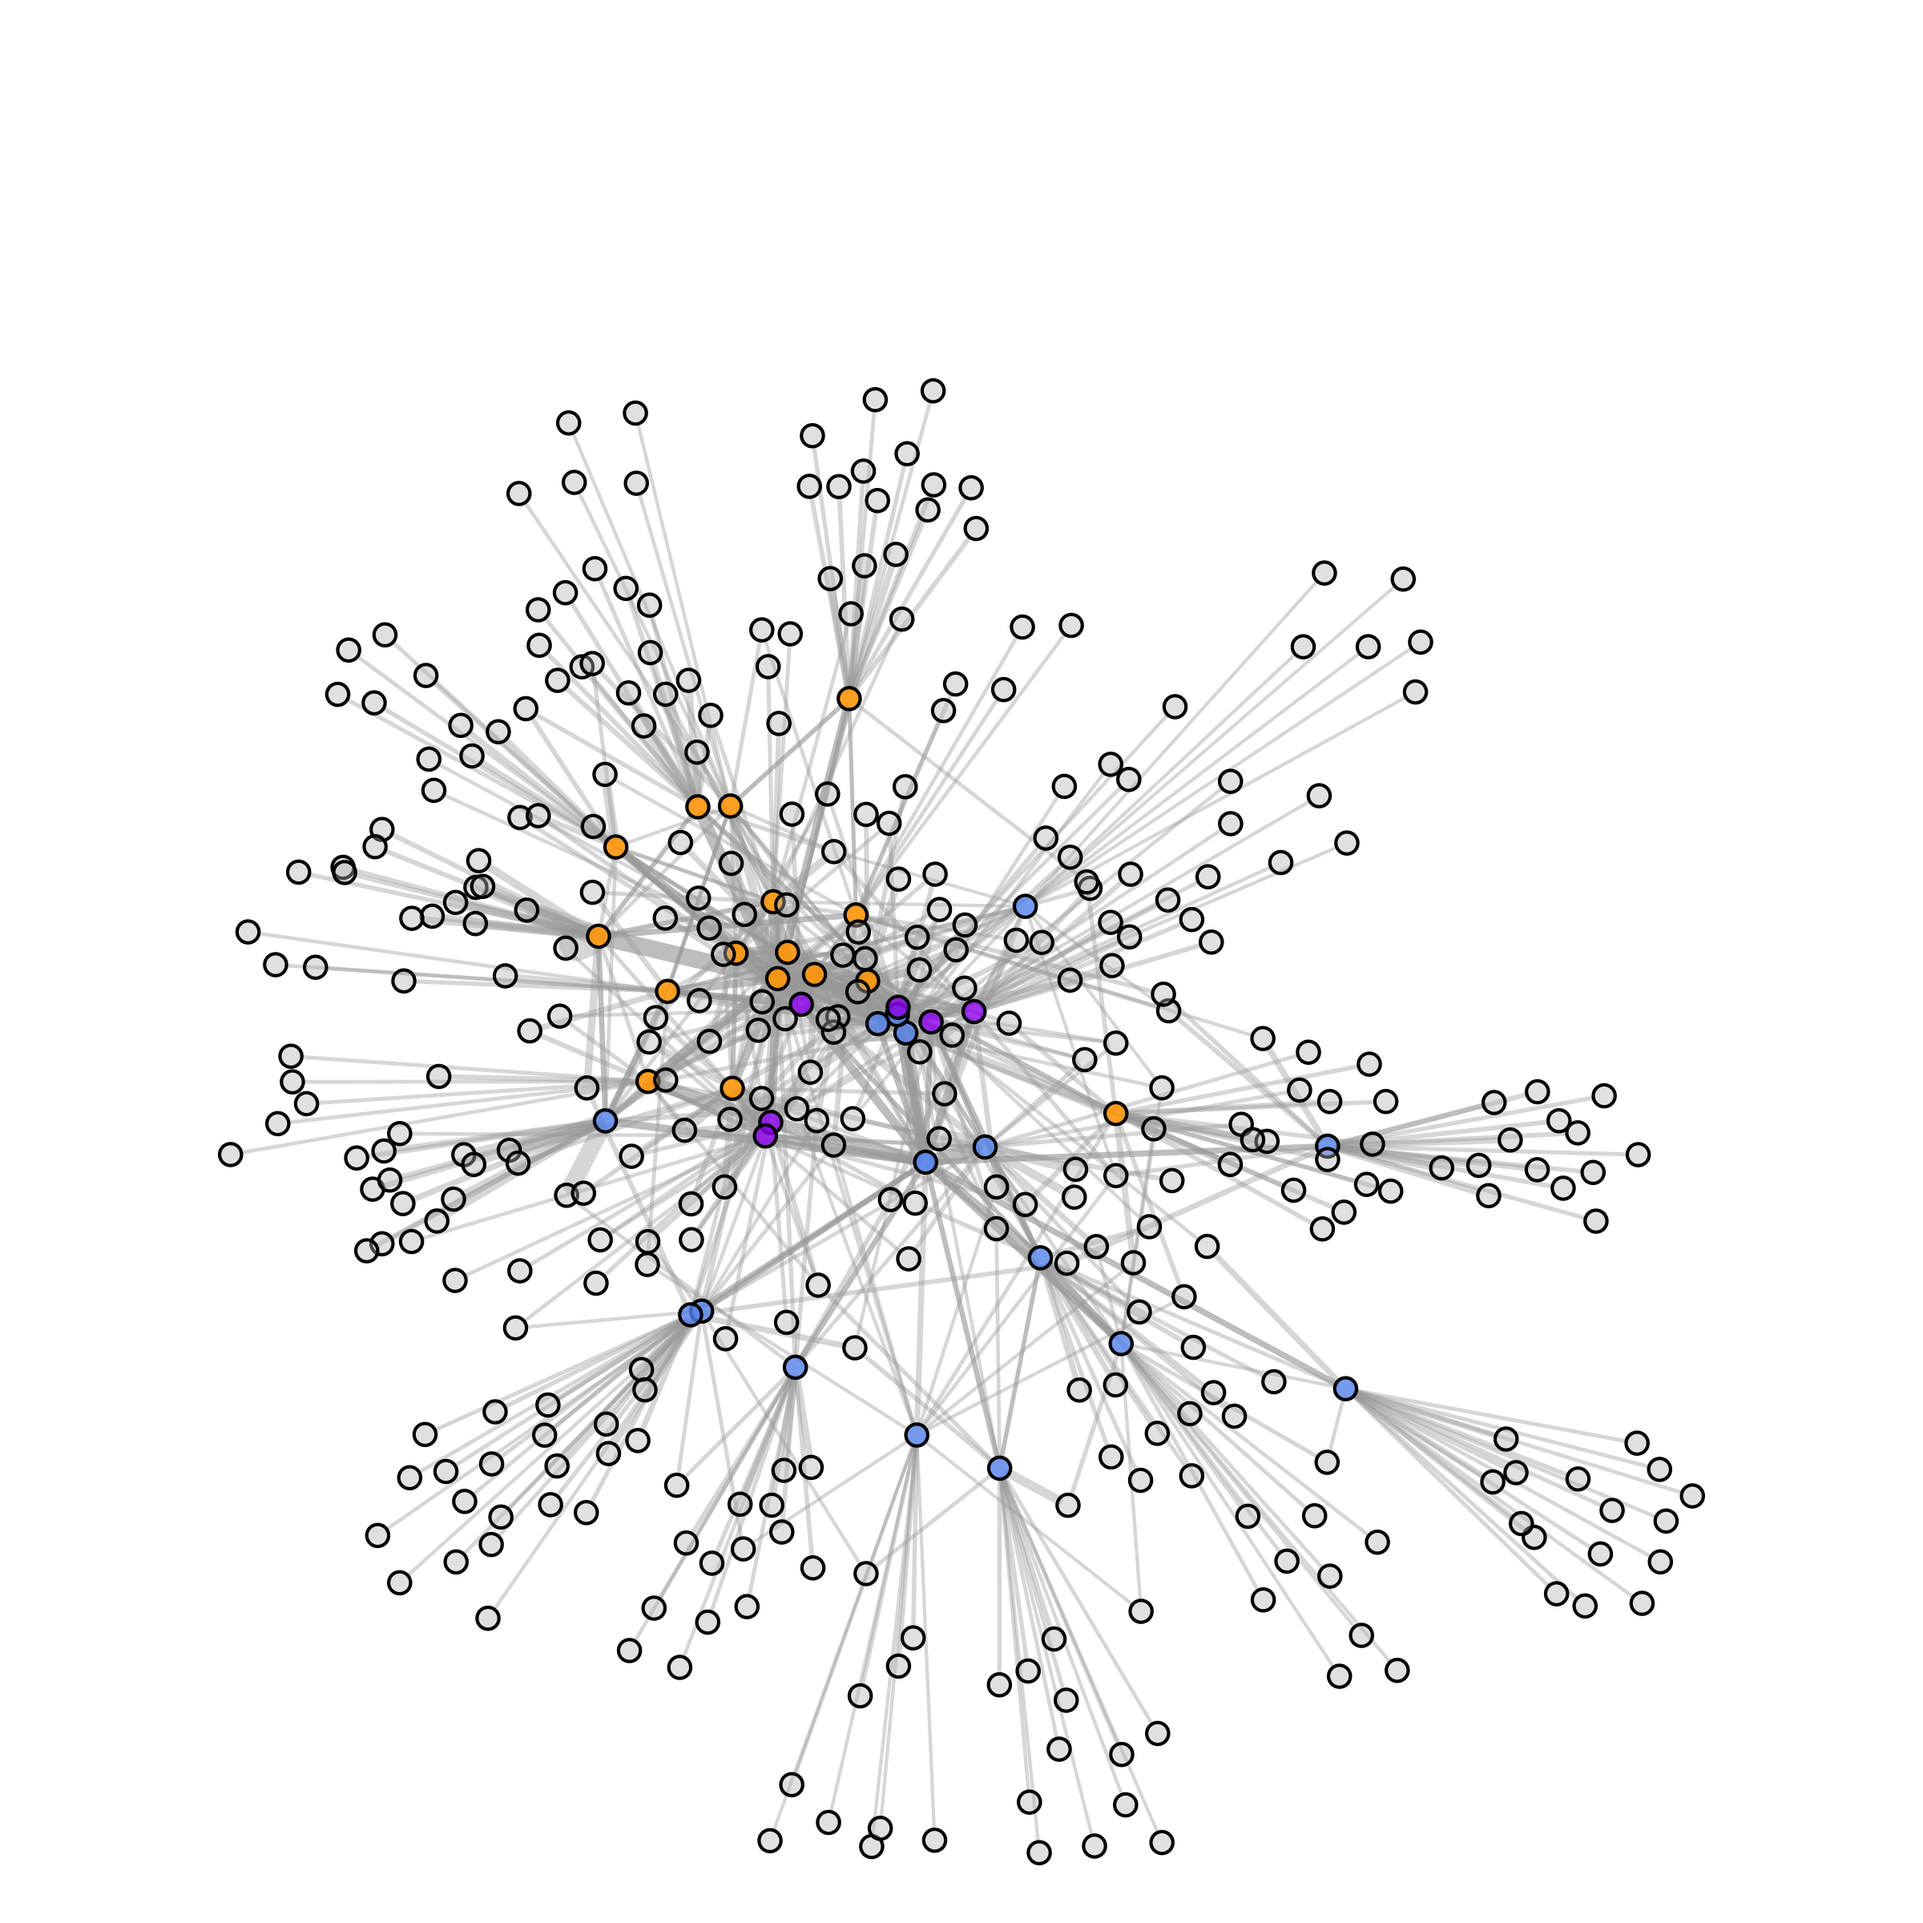
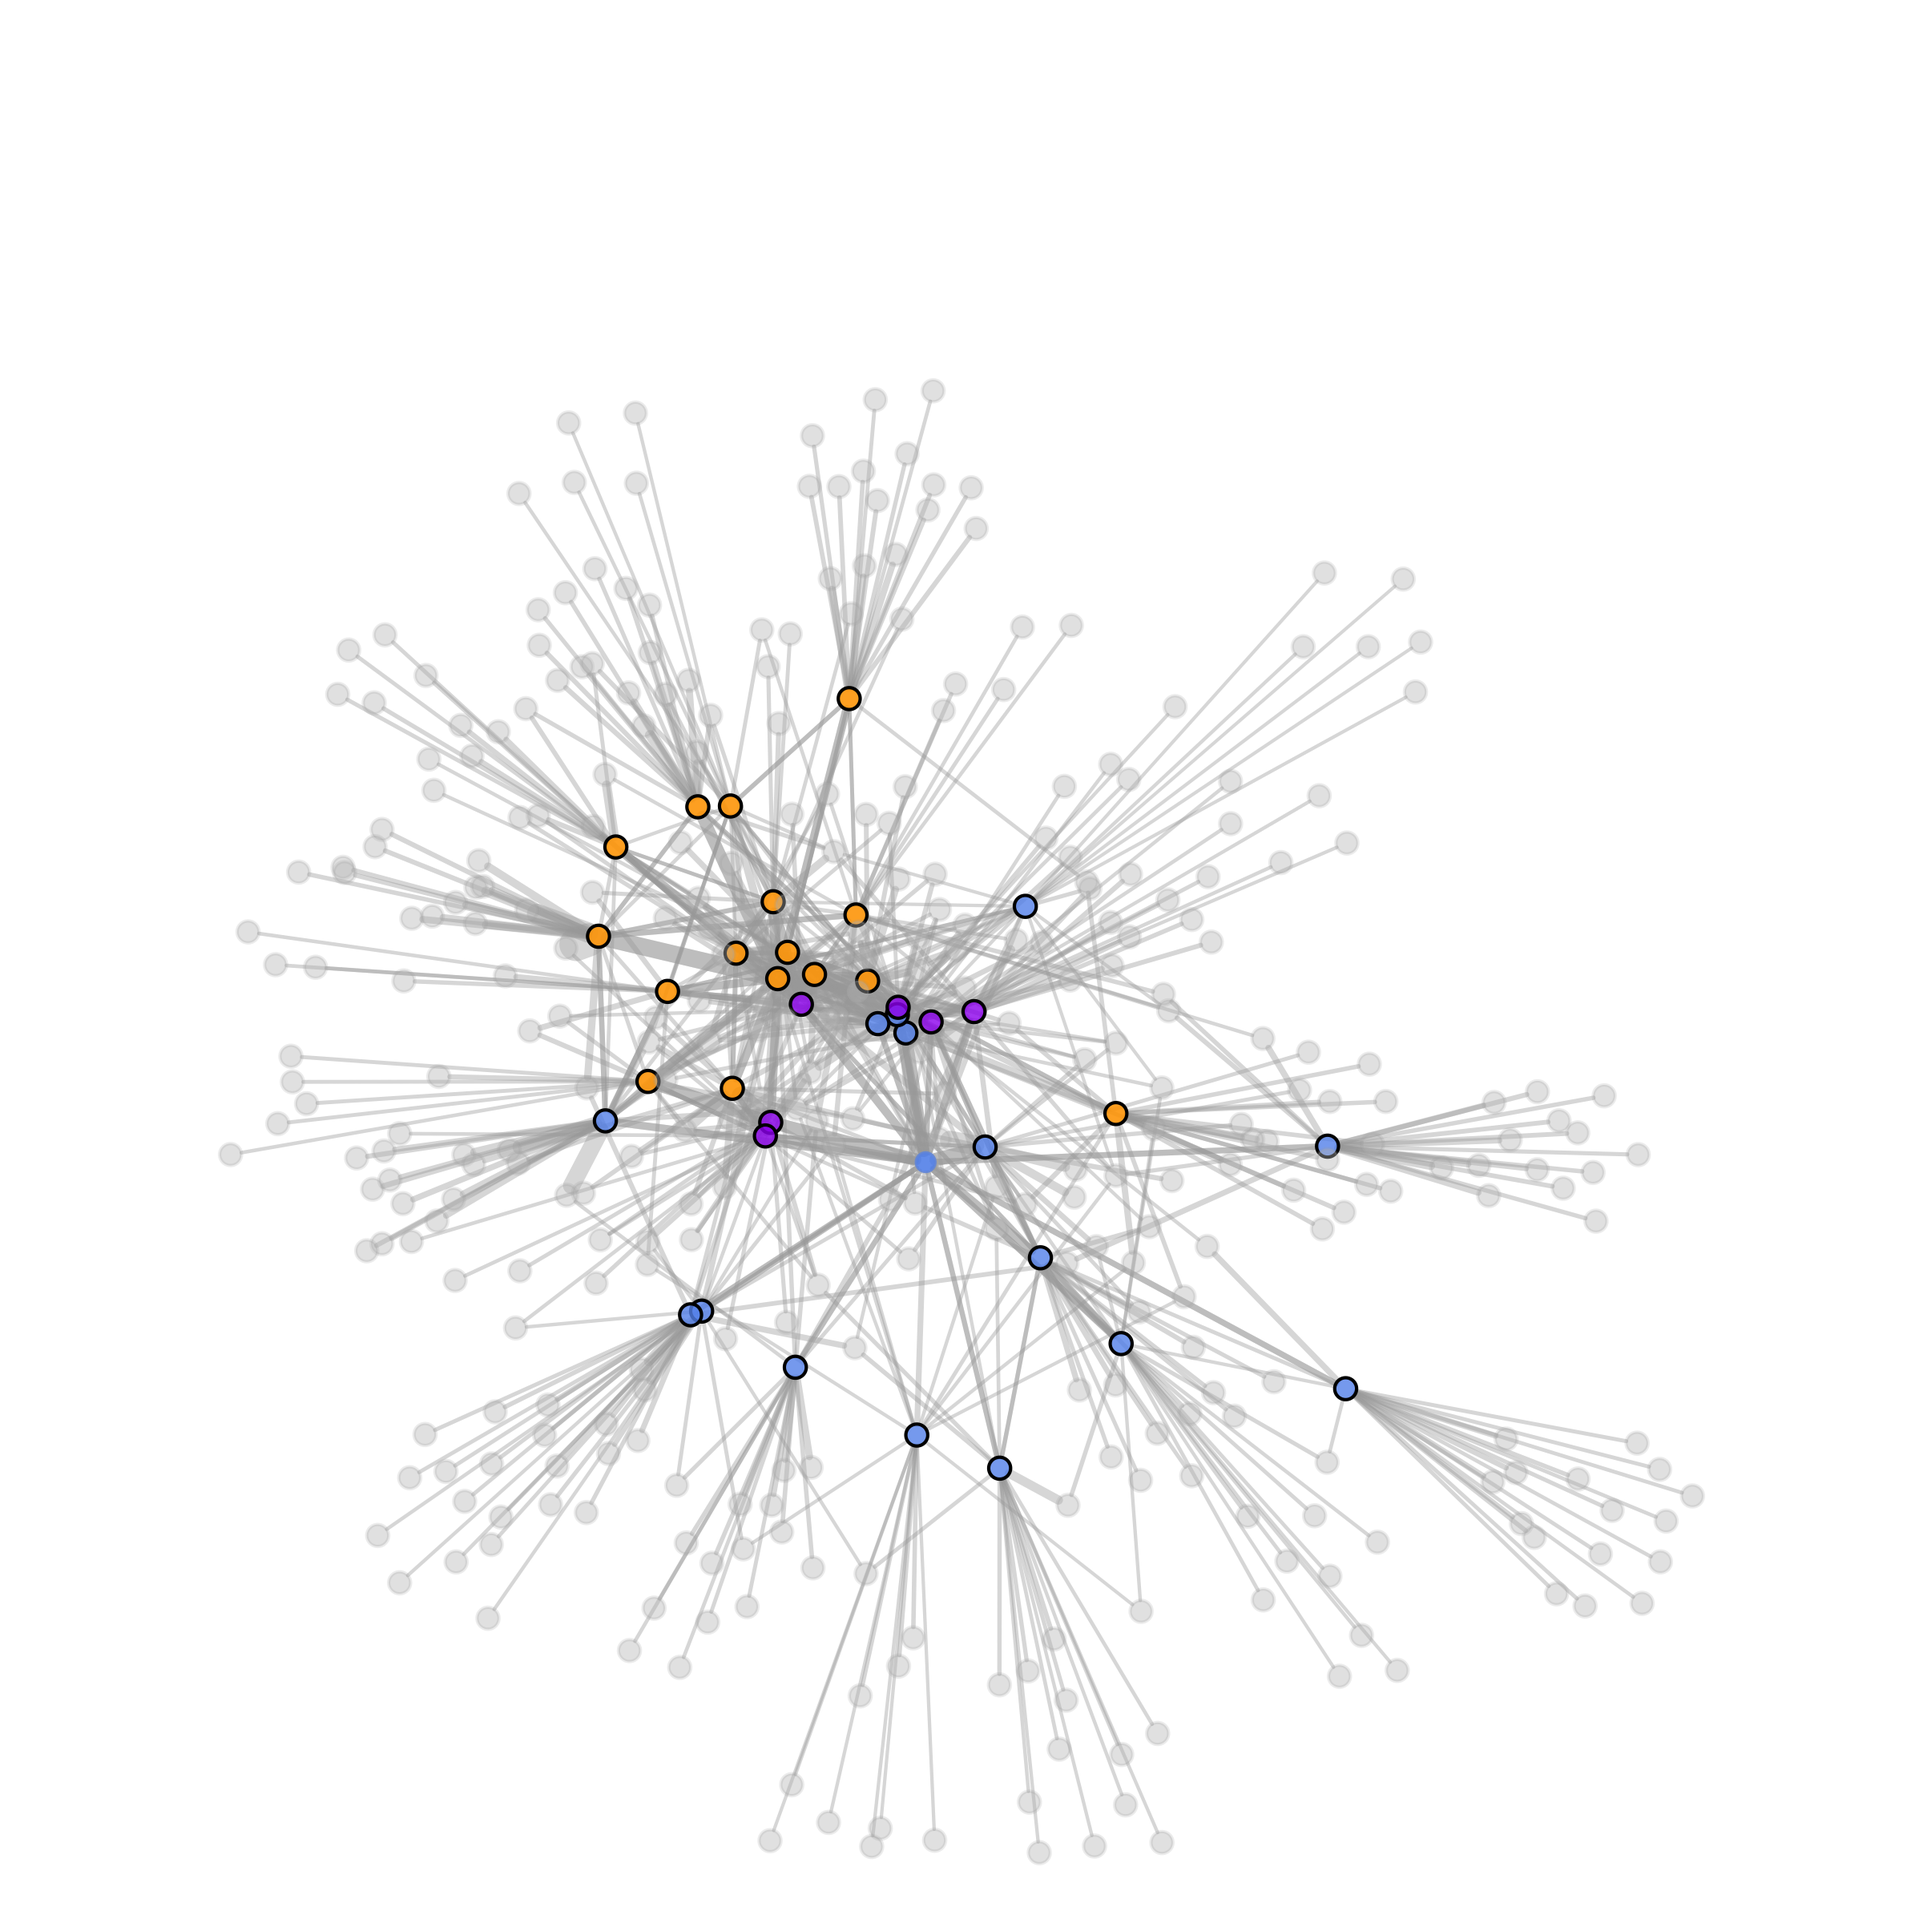
update README.md

diff --git a/docs/README.md b/docs/README.md
@@ -29,6 +29,8 @@ library(tidyverse)
 library(quanteda) #for text cleaning
 library(igraph) #for creating graphs
 library(visNetwork) #for visualizing graphs
+library(gridExtra)
+library(gtable)
 
 source("calculatecoocstats.R") #calculate co-occurrence statistics
 source("grapher.R") #create graph
@@ -499,7 +501,7 @@ graph = grapherdemo(21, token_filter3('all', 1940, 2020, token.all)) #create gra
  #visIgraph(g) #%>% visNodes(font = list(size = 26))  #display
  
 plot(g, vertex.size = 3, vertex.label = NA, 
-     vertex.label.dist = 0, 
+     vertex.label.dist = 0, vertex.frame.color = ifelse(V(g)$name %in% c(names(male_primary), names(female_primary), 'female/characters'), adjustcolor('black', alpha.f = 1), adjustcolor('darkgray', alpha.f = 0.2)),
      edge.curved=FALSE)
 ```
 
@@ -609,7 +611,12 @@ fprimary_tropes = female_ps
  
  #V(g)$color <- when(V(g)$name %in% 'male/character', adjustcolor('red', alpha = 0.8))
  #visIgraph(g)
- plot(g, vertex.size = 3, vertex.label = NA, 
+ plot(g, vertex.size = 3, vertex.label = NA,
+      vertex.frame.color = ifelse(V(g)$name %in% c(names(male_primary),
+                                                   names(female_primary), 
+                                                   'female/characters'), 
+                                  adjustcolor('black', alpha.f = 1), 
+                                  adjustcolor('darkgray', alpha.f = 0.2)),
      vertex.label.dist = 0, 
      edge.curved=FALSE)
 ```
@@ -634,48 +641,54 @@ fprimary_tropes = female_ps
 ## Common Roles
 
 ``` r
-graph = grapherdemo(21, token_filter3('noun', 1940, 2020, token.all))
+ll_bar <- function(pos = 'noun', n = 21, ylimit = 1800){
+graph = grapherdemo(21, token_filter3(pos, 1940, 2020, token.all))
 female_primary = graph[[2]] #20 female primary nodes
 male_primary = graph[[3]] #20 male primary nodes
 g = graph[[1]] #save graph as g
 
 male_primary = male_primary[names(male_primary) != 'female/characters']
-male_primary = male_primary[1:20]
+male_primary = male_primary[1:(n-1)]
 male_np = data.frame(word = names(male_primary), llr = male_primary)
 male_np$gender = 'male'
 
-ggplot(male_np, aes(x = reorder(word, llr), y = llr)) +
+mn = ggplot(male_np, aes(x = reorder(word, llr), y = llr)) +
   geom_bar(stat = 'identity', fill = 'deepskyblue4', 
            alpha = 0.7, color = 'black') + coord_flip() +
-           xlab('word') + ylab('loglikelihood ratio')
-```
+           xlab('word') + ylab('loglikelihood ratio') + ylim(0, ylimit) +
+           theme_linedraw() + theme(axis.title.x=element_blank(),
+                              axis.text.x=element_blank(),
+                              axis.ticks.x=element_blank())
 
-![](README_files/figure-gfm/unnamed-chunk-16-1.png)<!-- -->
-
-``` r
 female_primary = female_primary[names(female_primary) != 'male/characters']
 female_primary = female_primary[1:20]
 female_np = data.frame(word = names(female_primary), llr = female_primary)
 female_np$gender = 'female'
 
-ggplot(female_np, aes(x = reorder(word, llr), y = llr)) +
+fn = ggplot(female_np, aes(x = reorder(word, -llr), y = llr)) +
   geom_bar(stat = 'identity', fill = 'darkorange3', 
            alpha = 0.7, color = 'black') + coord_flip() +
-           xlab('word') + ylab('loglikelihood ratio') + theme_linedraw()
+           xlab('word') + ylab('loglikelihood ratio') + theme_linedraw() +
+  ylim(0, ylimit)
+
+grid.arrange(mn, fn)
+}
+```
+
+``` r
+ll_bar('noun')
 ```
 
 ![](README_files/figure-gfm/unnamed-chunk-17-1.png)<!-- -->
 
 ``` r
-#ll_np = rbind(male_np, female_np)
-
-# ggplot(all_np, aes(x = reorder(word, llr), y = llr)) +
-#   geom_bar(stat = 'identity', aes(fill = gender), 
-#            alpha = 0.7, color = 'black') + coord_flip() +
-#            xlab('word') + ylab('loglikelihood ratio') +
-#   facet_wrap(~ gender)
+ll_bar('verb', ylimit = 700)
 ```
+
+![](README_files/figure-gfm/unnamed-chunk-18-1.png)<!-- -->
 
 ``` r
-#to do: general function for word classes, fix igraphs
+ll_bar('adj', ylimit = 400)
 ```
+
+![](README_files/figure-gfm/unnamed-chunk-19-1.png)<!-- -->
